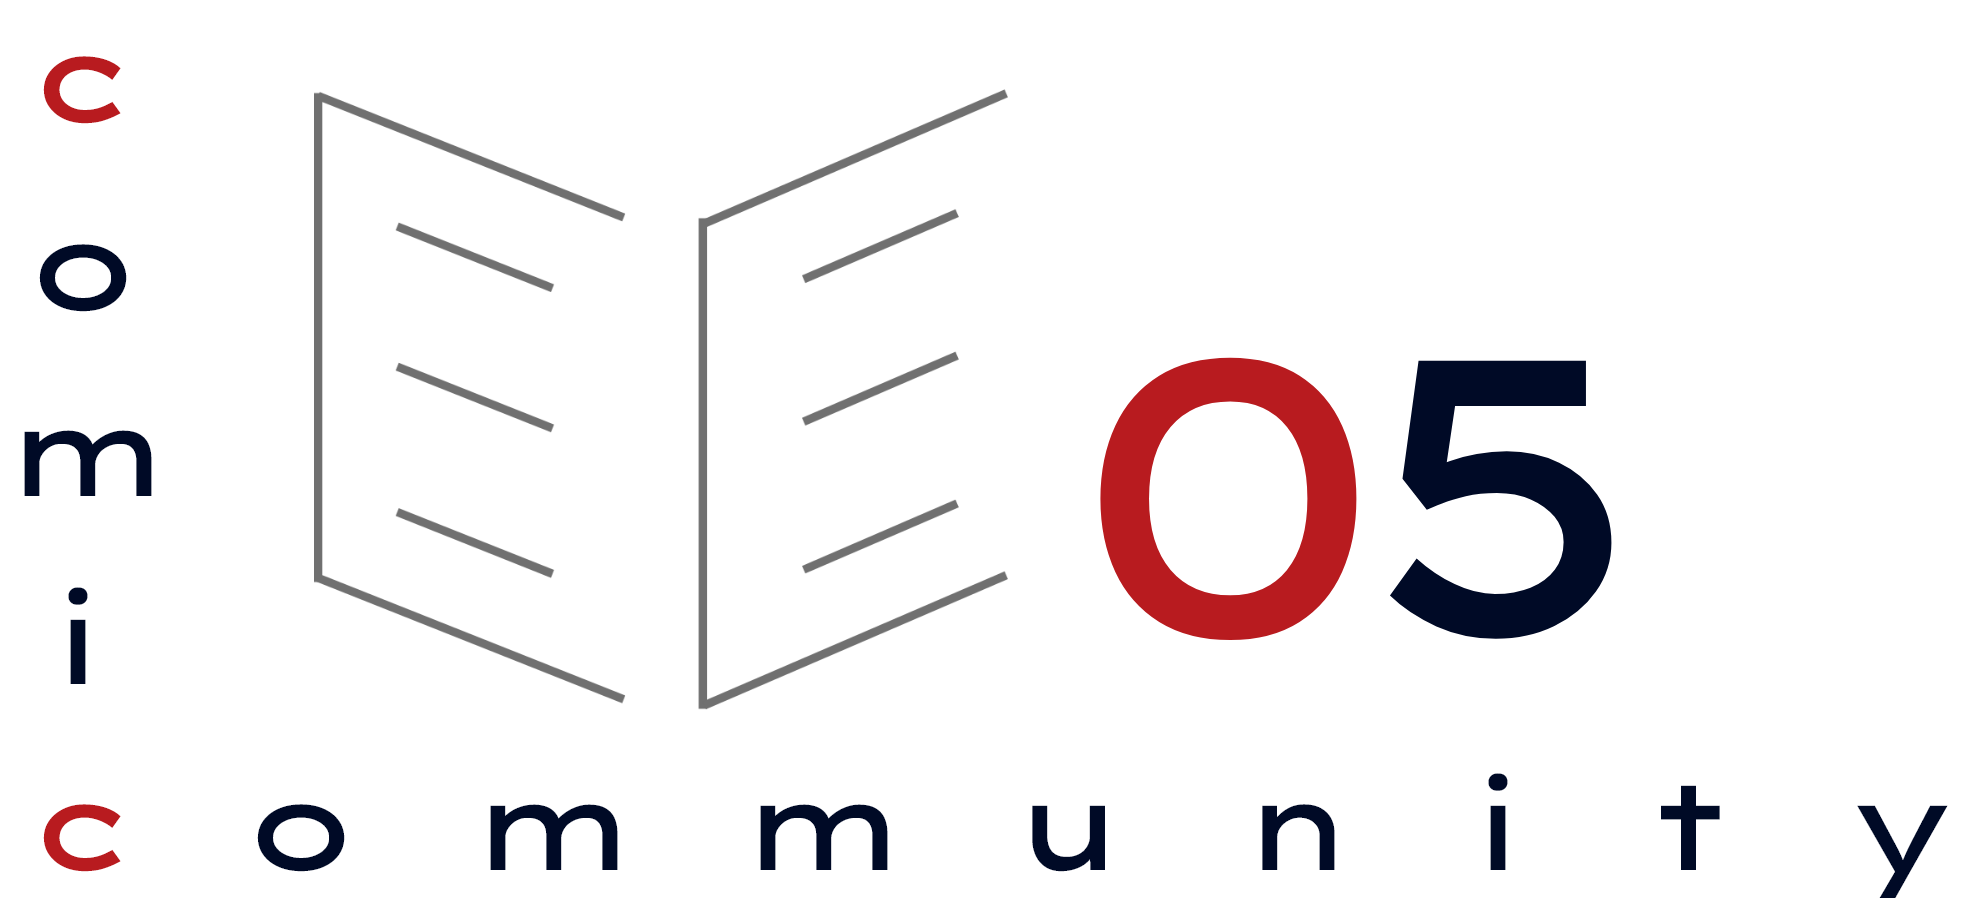
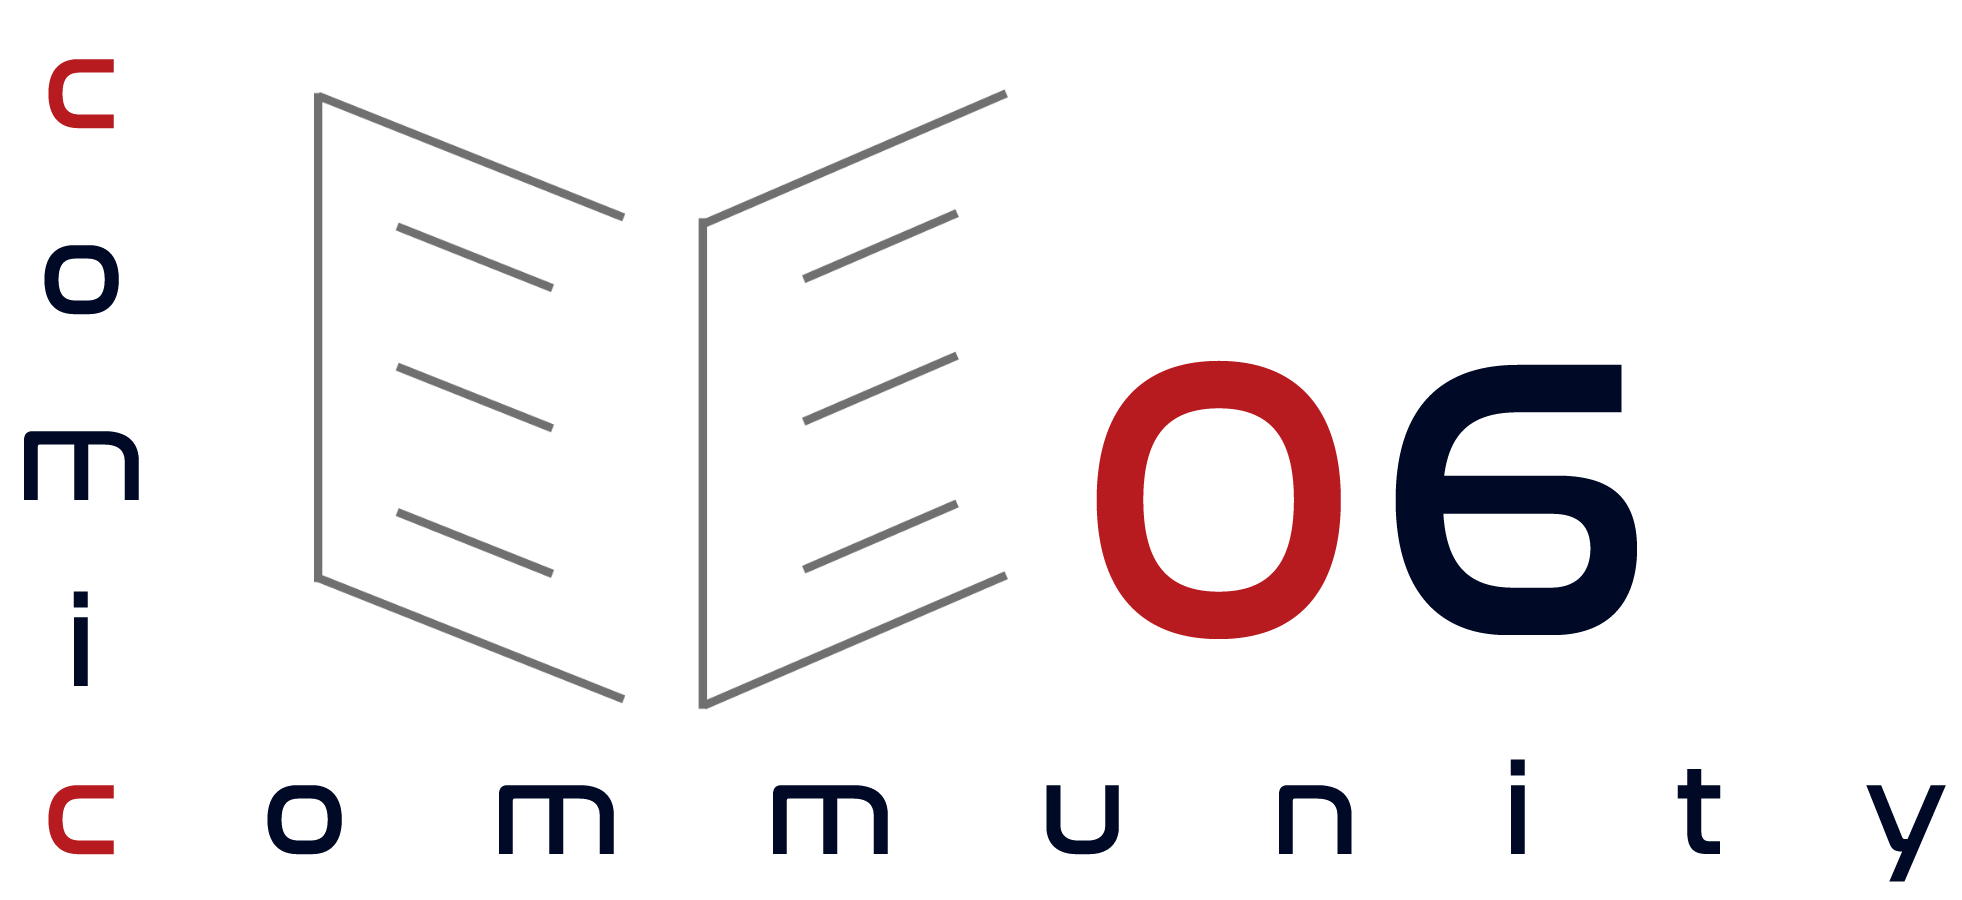
24年度分完成

diff --git a/src/components/menue/index.tsx b/src/components/menue/index.tsx
@@ -11,7 +11,7 @@ const menuesetli: linkset[] = [
         isLocal: true 
     },
     { 
-        text: "Comic Community(こみこみ)とは", 
+        text: "こみこみについて", 
         url: "/aboutus", 
         isLocal: true 
     }, 

diff --git a/content/forcircle.md b/content/forcircle.md
@@ -4,35 +4,50 @@ title: "サークル参加の方へ"
 date: "2024年09月29日"
 ---
 
-現在CC06のサークル出展本登録を受け付けております。[こちらのform]にアクセスいただき、必要事項を**10/31(木)まで**にご記入ください。\
+現在CC06のサークル出展本登録を受け付けております。以下のCC06開催概要をご覧になって、下記2つのフォームに必要事項をご記入ください。\
+期限は**10/31(木)まで**となっております。
+- [サークル基本情報のご登録](https://docs.google.com/forms/d/e/1FAIpQLSedYro4jBpwqrafFTZC2lbq24Wzw7ow1Eyw-QAu9L0B4TpEjA/viewform) 
+- [各日程の出展方式のご登録](https://docs.google.com/forms/d/e/1FAIpQLSdP7qTRdcoa063IREFLDvjbf_Ym5IWerie0DU2SpsYuBfvCuA/viewform)
 
-# 募集要項
-|  |  |
-| ---- | ---- |
-| 名称 | Commic Community 06 |
-| 内容 | オールジャンル同人誌即売会 |
-| 開催日 | 2024年11月20 ~ 23日 |
-| 場所 | 未定 |
-| 募集 | 直接参加・委託参加 |
-| スペース数 | 未定（30ほどを見積もっています） |
-| 申込締切 | 10月31日 |
+## CC06開催概要
 
-# 参加資格
+京都の学生による創作・批評活動の発展と交流を目的として，2024年も京都大学11月祭にて，オールジャンル同人即売会「第6回Comic Community即売会(略称：CC06)」を開催します。
+
+- 日時：11/20(水)〜11/23(土), 11:00-17:00 / 10:00-18:00
+- 場所：総合研究9号館W301講義室
+
+## 開催までの流れ
+1. 出展登録
+2. スペース当落通知(登録締切後2日程度)
+3. 搬入
+4. 当日頒布
+5. 撤収
+
+## 開催スケジュール
+|  |  | 日時 |  | 推奨する出展方式 |
+|----------|-------|-----------|-------------|--------------|
+| 前半の部 | Day 1 | 11/20(水) | 11:00-17:00 | 直接頒布推奨 |
+|          | Day 2 | 11/21(木) |             |              |
+| 後半の部 | Day 3 | 11/22(金) | 10:00-18:00 | 委託頒布推奨 |
+|          | Day 4 | 11/23(土) |             |              |
+|          |       |           |             |              |
+
+## 出展方式について
+| 出展方式 |  概要  | ご用意いただくもの                                 | 出展参加費 |
+| :---------| :------------------------------------------------------------- | :-------------------------------------------------- | :-- |
+| 直接頒布 | 出展サークル様が会場の自スペース<br>で直接頒布していただく方式     | サークルチケット                                   | [下記][label] |
+| 委託頒布 | スペースに見本を置き，<br>委託ブースにて頒布物を一括で取り扱う方式 | サークルチケット，頒布物見本，頒布物リスト，頒布物 | [下記][label] |
+|          |                                                                |                                                    |  |
+
+[label]: #参加費
+
+## 出展資格
 サークル参加するには1種類以上の品目を頒布する必要があります。
 
-# 参加形態
-直接参加、委託参加の2形態を設けます。
-
-## 直接参加
-参加サークルの方が会場に頒布物を搬入していただき、指定されたスペース内で自由に頒布、展示することが出来ます。
-
-## 委託参加
-諸事情により当日に来ることが出来ない方向けに、当運営スタッフが代わりに頒布を行います。特定の日は直接参加を行うが、直接参加が難しい日には販売を委託したい、という場合は申し込みの際に備考欄にご記入ください。
-
-# 頒布物
+## 頒布物
 以下の頒布禁止物に該当しない限りで、同人誌、CD、ソフトウェア等全ての形態ものを頒布することができます。当日搬入時に、頒布物が頒布禁止物に該当しないか運営が確認し、該当すると判断した場合は基準に収まるような修正を指示、修正を行わない場合は頒布を禁止します。頒布物が頒布禁止物に該当するか判断に迷う場合は、運営にお問い合わせください。
 
-## 頒布禁止物
+### 頒布禁止物
 - 飲食物、薬品、危険物
 - 企業や企業協賛の頒布物
 - 二次創作の作品の場合、版権元を著しく侵害する頒布物
@@ -44,10 +59,10 @@ date: "2024年09月29日"
 - 当運営に頒布を許可されていない頒布物
 - その他、当運営が不適切だと判断した頒布物
 
-## 成人向け頒布物の頒布について
+### 成人向け頒布物の頒布について
 成人向け頒布物（過度なグロ、性的表現を含む頒布物）の頒布は禁止しません。ただし、頒布する場合は見本誌に黒いカバーをつけるなどの配慮を出展者の責任で行ってください。直接頒布の場合は出展者の責任で年齢確認を行ってください。委託頒布の場合はComic Communityの責任でレジにて年齢確認を行います。
 
-# 参加費
+## 参加費
 備品購入などの都合によって若干の変更の可能性があります。
 
 |  | 直接参加(1スペースあたり) | 委託参加(1スペースあたり) |
@@ -64,7 +79,7 @@ date: "2024年09月29日"
 ※2スペース申込について
 そのサークルに一般参加者が集中し頒布が大変になる、頒布物が多数あり1スペースでは収まらないなどの場合、2スペース申込むことが出来ます。参加費は上記の金額の2倍です。2スペース申込を検討している方は申込時に備考欄にその旨を記載するようお願いいたします。
 
-# スペースについて
+## スペースについて
 - 机サイズは今年度は未定ですが昨年度は縦35cm、横160cmでした。これを2分割して1スペース(35cm×80cm)として使用しました。
 - 壁や床を使った掲示物の展示は禁止します。
 - 当運営の許可なくビラなどを会場外に掲示する、配布するなどの行為は禁止します。
@@ -72,17 +87,17 @@ date: "2024年09月29日"
 - 電源の利用は事前にご相談ください。
 - 火気厳禁です。
 
-# 抽選
-直接参加申込が多数の場合、抽選にて直接参加するサークルを決定いたします。基本的には抽選を行いますが、直接頒布か委託頒布かを考慮する場合がございます。抽選が行われた際は、10月初旬に抽選結果を、直接参加申込を行った各サークルの申込時に入力したメールアドレスに送信いたします。なお、抽選後の調整により繰り上げ当選を行う場合があります。
+## 抽選
+直接参加申込が多数の場合、抽選にて直接参加するサークルを決定いたします。基本的には抽選を行いますが、直接頒布か委託頒布かを考慮する場合がございます。抽選が行われた際は、10月初旬に抽選結果を、直接参加申込を行った各サーfクルの申込時に入力したメールアドレスに送信いたします。なお、抽選後の調整により繰り上げ当選を行う場合があります。
 
 直接参加の抽選に落選した方のうち、委託販売を希望される方は申込時に「直接参加の抽選に落選した場合に委託参加を希望する」の欄にチェックすることで自動的に委託参加に切り替えられます。
 
-# サークルカット
-直接参加、委託参加に関わらず、参加サークルからサークルカットの提出をお願いします。サークルカットの提出期限は2023年10月31日(火)23:59です。
+## サークルカット
+直接参加、委託参加に関わらず、参加サークルからサークルカットの提出をお願いします。サークルカットの提出期限は2024年10月31日(火)23:59です。
 
 提出されたサークルカットは当運営のHP上で掲載するなどの広報活動に使用致します。
 
-提出はComiCommKyoto@gmail.comまで、サークルカットの画像ファイル(PNG･JPEG形式など)を添付のうえ送信してください。
+提出先は、上記の[サークル基本情報のご登録フォーム](https://docs.google.com/forms/d/e/1FAIpQLSedYro4jBpwqrafFTZC2lbq24Wzw7ow1Eyw-QAu9L0B4TpEjA/formResponse)となっております。
 
 サークルカットのテンプレート
 
@@ -92,52 +107,43 @@ date: "2024年09月29日"
 
 ![記入例](https://kitchon.net/special/comcom04/circlecut_mihon.png)
 
-# その他
-## コスプレ売り子について
+## その他
+### コスプレ売り子について
 コスプレ衣装での売り子を希望される際は当日に運営スタッフからの許可をもらい、その際に配布する許可証を目に見えるところに提示してください。衣装については一般参加と同じ規定を遵守していただきます。
 
-# 当日の流れ、諸注意
+## 当日の流れ、諸注意
 「一般参加の方へ」のページと合わせて参加当日までにご確認ください。下記事項に反した場合、頒布の禁止、退場などの措置を行うことがあります。その場合でも、直接参加費や委託販売費は返金いたしません。
 
-## 搬入・設営
+### 搬入・設営
 - 直接参加、委託参加問わず、頒布物の搬入、撤収作業は当日に各サークルで行ってください。その際、京都大学や11月祭事務局ならびに当運営宛てに郵送しないでください。
 - 搬入時に、大学構内及びその近辺に宅配業者を呼ばないでください。
 - 直接参加の搬入設営開始時刻は参加日の午前9:00です。それ以前の搬入設営は原則禁止です。（設営に1時間以上かかる等事情がある場合は事前に運営にお問い合わせください。）
 - 委託参加の場合は、頒布物を参加前日の開催時間中、あるいは当日の午前9:00以降に会場に持参してください。
 
-## 参加費支払い
+### 参加費支払い
 - 各サークルは直接参加費や委託参加費を、来場時に運営スペースにて現金でお支払いください。またその際に、サークル代表者の身分証と提示してください。内部団体は学生証も提示してください。
 - 複数日参加するサークルは参加初日に参加日数分全額まとめてお支払いください。初日以降は毎回領収書を持参してください。
 
-## 撤営
+### 撤営
 - 頒布終了時刻および撤営完了時刻は11/20~22は18:00、11/23は17:00です。この時間までに撤営完了できるように各団体は撤営作業を行ってください。
 - 委託参加の方は上記撤営完了時刻までに頒布物及び売上を会場まで回収しに来てください。
 - 撤営時には運営にサークル参加証、コスプレ許可証、その他運営から借用したものを返却してください。
 - 撤営時に、大学構内及びその近辺に宅配業者を呼ばないでください。
 - ゴミは各サークルで持ち帰ってください。
 
-## 会場について
+### 会場について
 - 会場内では美化に努めてください。
 - 夜間の泊まり込みは禁止とします。
 - 夜間は教室を施錠するので、連日参加の場合、直接参加、委託参加問わず、翌日まで頒布物等の荷物を会場に置いて帰ってもかまいません。ただし、運営スタッフによる夜間巡回は行いません。また、万が一盗難などの被害を受けた場合は、当運営は責任を負いません。
 
-## スペースについて
+### スペースについて
 - 常に最低1人以上、店番を配置し、店番は配布するサークル参加証を常に目に見えるところに提示してください。
 - 当運営の許可のない会場内の撮影行為は禁止します。自スペースの写真を撮影する行為は禁止しませんが、他サークルおよび他の一般参加者とトラブルにならないよう配慮してください。
 
-## その他
+### その他
 - 物品破損などが生じた場合、故意過失にかかわらず、自己申告してください。場合によってはその参加サークルに賠償していただく可能性があります。
 - 参加サークル同士および当日の入場者とのトラブルには注意してください。トラブルが起きた場合、当運営は一切責任を負いません。
 - 会場内での貴重品の扱いには厳重に注意してください。盗難などの問題が発生した場合にも、当運営は一切責任を負いません。
 - 会場内では当運営の指示に従ってください。
 
-# 申込方法
-申し込みの受付はGoogle Formにて行います。本ページの注意事項を確認の上、以下のリンクからご登録ください。
 
-申込締切は2024年10月31日(火)23:59です。ご注意ください。
-
-申し込みフォーム：準備中（近日中に出る予定です）
-
-申込後、サークルカットを必ず提出していただきますようお願いします。
-
-申込時に入力していただいた個人情報については、個人情報保護法をはじめとする諸法令に従い、厳重に管理･運用いたします。原則として、他団体に個人情報を提供することは行いませんが、11月祭事務局からの要望があった場合は、11月祭事務局にのみ、個人情報を提供することがあります。

diff --git a/content/toppage.md b/content/toppage.md
@@ -3,14 +3,11 @@ title: "toppage"
 page: "toppage"
 ---
 
-# News
+### 京都大学11月祭オールジャンル  同人誌即売会 CC06 開催決定！
+#### 開催日時
+11/20(水)〜11/21(木)  11:00-17:00\
+11/22(金)〜11/23(土)  10:00-18:00
+#### 開催場所
+総合研究9号館W301講義室
 
-2024年度京都大学11月祭\
-オールジャンル同人誌即売会\
-Comic Community 06\
-サークル出展募集中！
-
-現在CC06の[サークル出展仮登録フォーム](https://forms.gle/BN15yaiL4fkoWsCV9)を用意しております。
-出展を検討されている団体・個人の皆さんはぜひご覧くださいませ。期限は **8/15(木)** とさせていただきます。
-
-<!-- <iframe src="https://www.google.com/maps/embed?pb=!1m18!1m12!1m3!1d747.8112316529986!2d135.78242510326024!3d35.02777145957903!2m3!1f0!2f0!3f0!3m2!1i1024!2i768!4f13.1!3m3!1m2!1s0x60010857cbe9ace5%3A0x9af701c2f61fd0a1!2z44CSNjA2LTgzMTcg5Lqs6YO95bqc5Lqs6YO95biC5bem5Lqs5Yy65ZCJ55Sw5pys55S6IOe3j-WQiOeglOeptjnlj7fppKg!5e0!3m2!1sja!2sjp!4v1697078390837!5m2!1sja!2sjp" width="600" height="450" style="border:0;" allowfullscreen="" loading="lazy" referrerpolicy="no-referrer-when-downgrade"></iframe> -->
+<iframe src="https://www.google.com/maps/embed?pb=!1m18!1m12!1m3!1d747.8112316529986!2d135.78242510326024!3d35.02777145957903!2m3!1f0!2f0!3f0!3m2!1i1024!2i768!4f13.1!3m3!1m2!1s0x60010857cbe9ace5%3A0x9af701c2f61fd0a1!2z44CSNjA2LTgzMTcg5Lqs6YO95bqc5Lqs6YO95biC5bem5Lqs5Yy65ZCJ55Sw5pys55S6IOe3j-WQiOeglOeptjnlj7fppKg!5e0!3m2!1sja!2sjp!4v1697078390837!5m2!1sja!2sjp" width="600" height="450" style="border:0;" allowfullscreen="" loading="lazy" referrerpolicy="no-referrer-when-downgrade"></iframe>

diff --git a/content/aboutus.md b/content/aboutus.md
@@ -1,6 +1,6 @@
 ---
 slug: "aboutus"
-title: "Comic Community サークル概要"
+title: "Comic Community（こみこみ） サークル概要"
 date: "2024年08月03日"
 ---
 
@@ -25,7 +25,7 @@ date: "2024年08月03日"
 
 ## 会員について
 ### 会員の定義
-Comic Community は、インカレサークルです。そのため、会員は京都大学に限らず、大学生であれば誰でも参加可能です。\
+Comic Community（こみこみ）は、インカレサークルです。そのため、会員は京都大学に限らず、大学生であれば誰でも参加可能です。\
 会員は、大学卒業後 OB・OG となります。OB は運営には携わりませんが、Discord サーバーの閲覧状態は特に変わりません
 
 ### 入会方法
